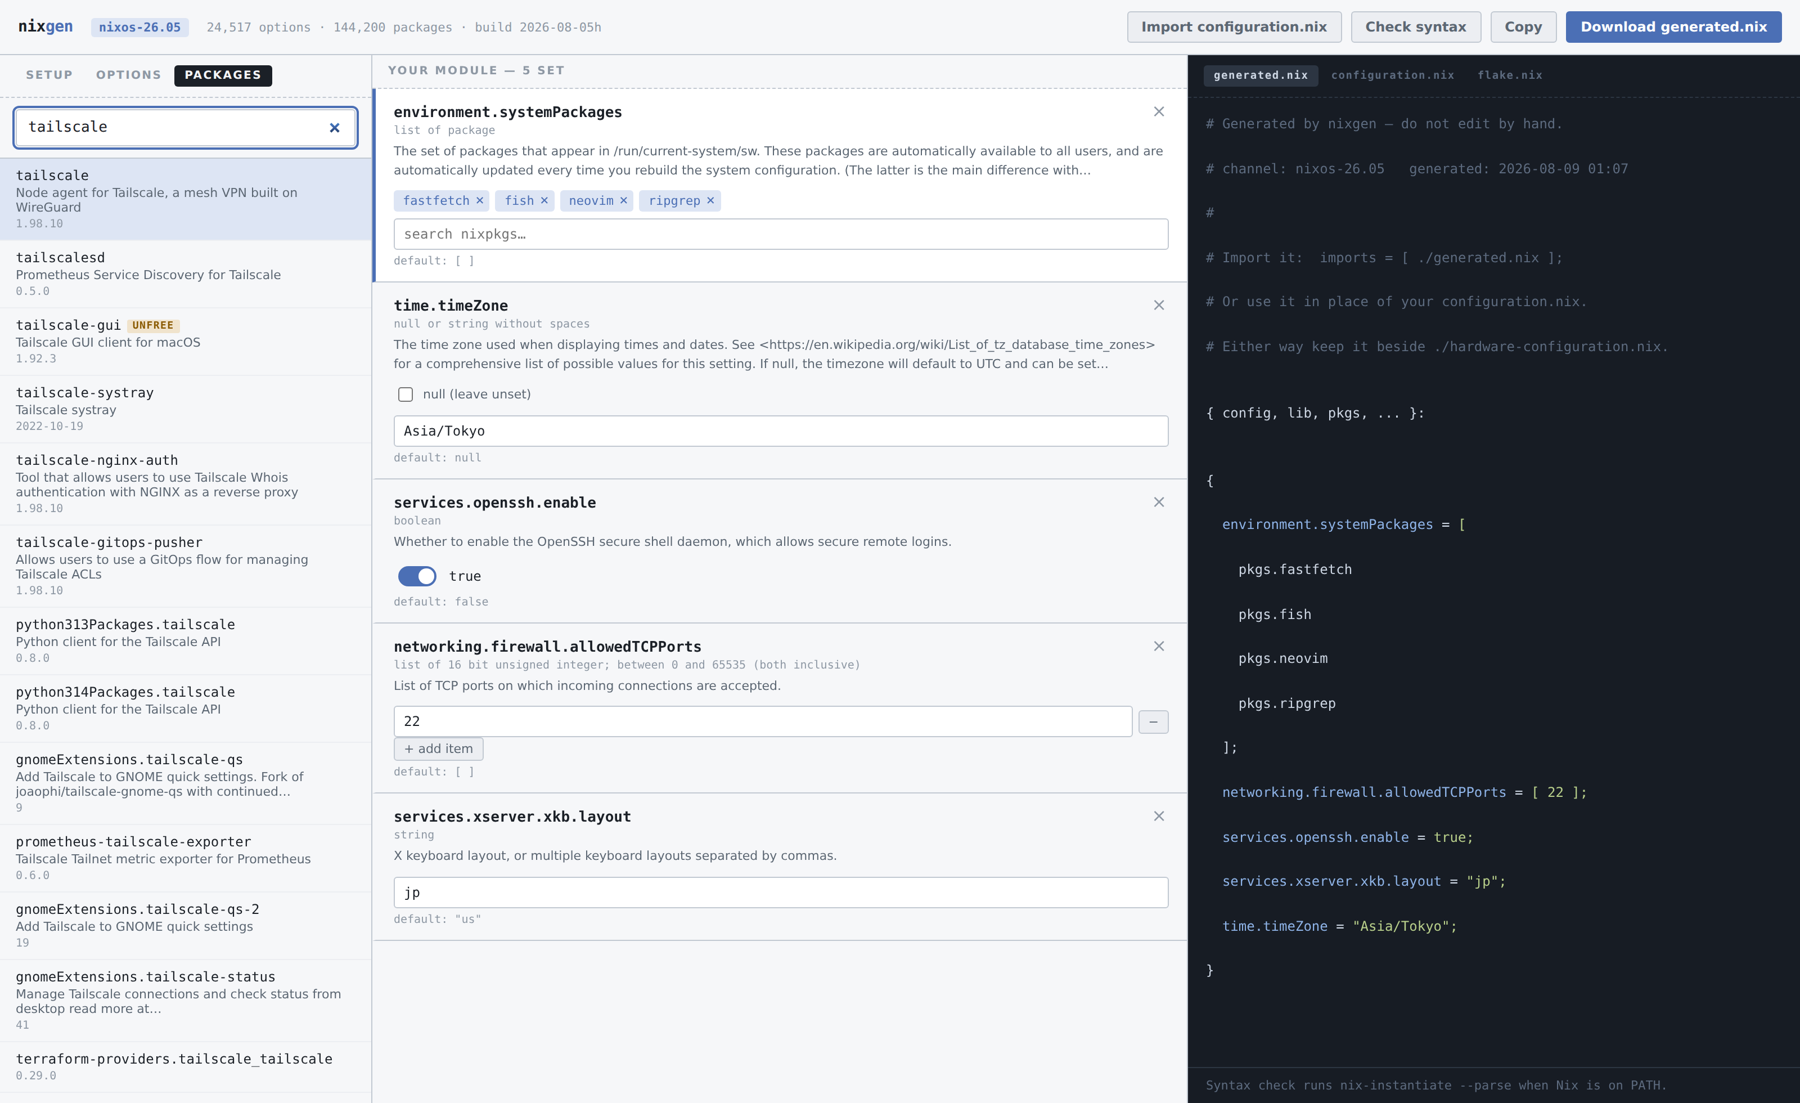
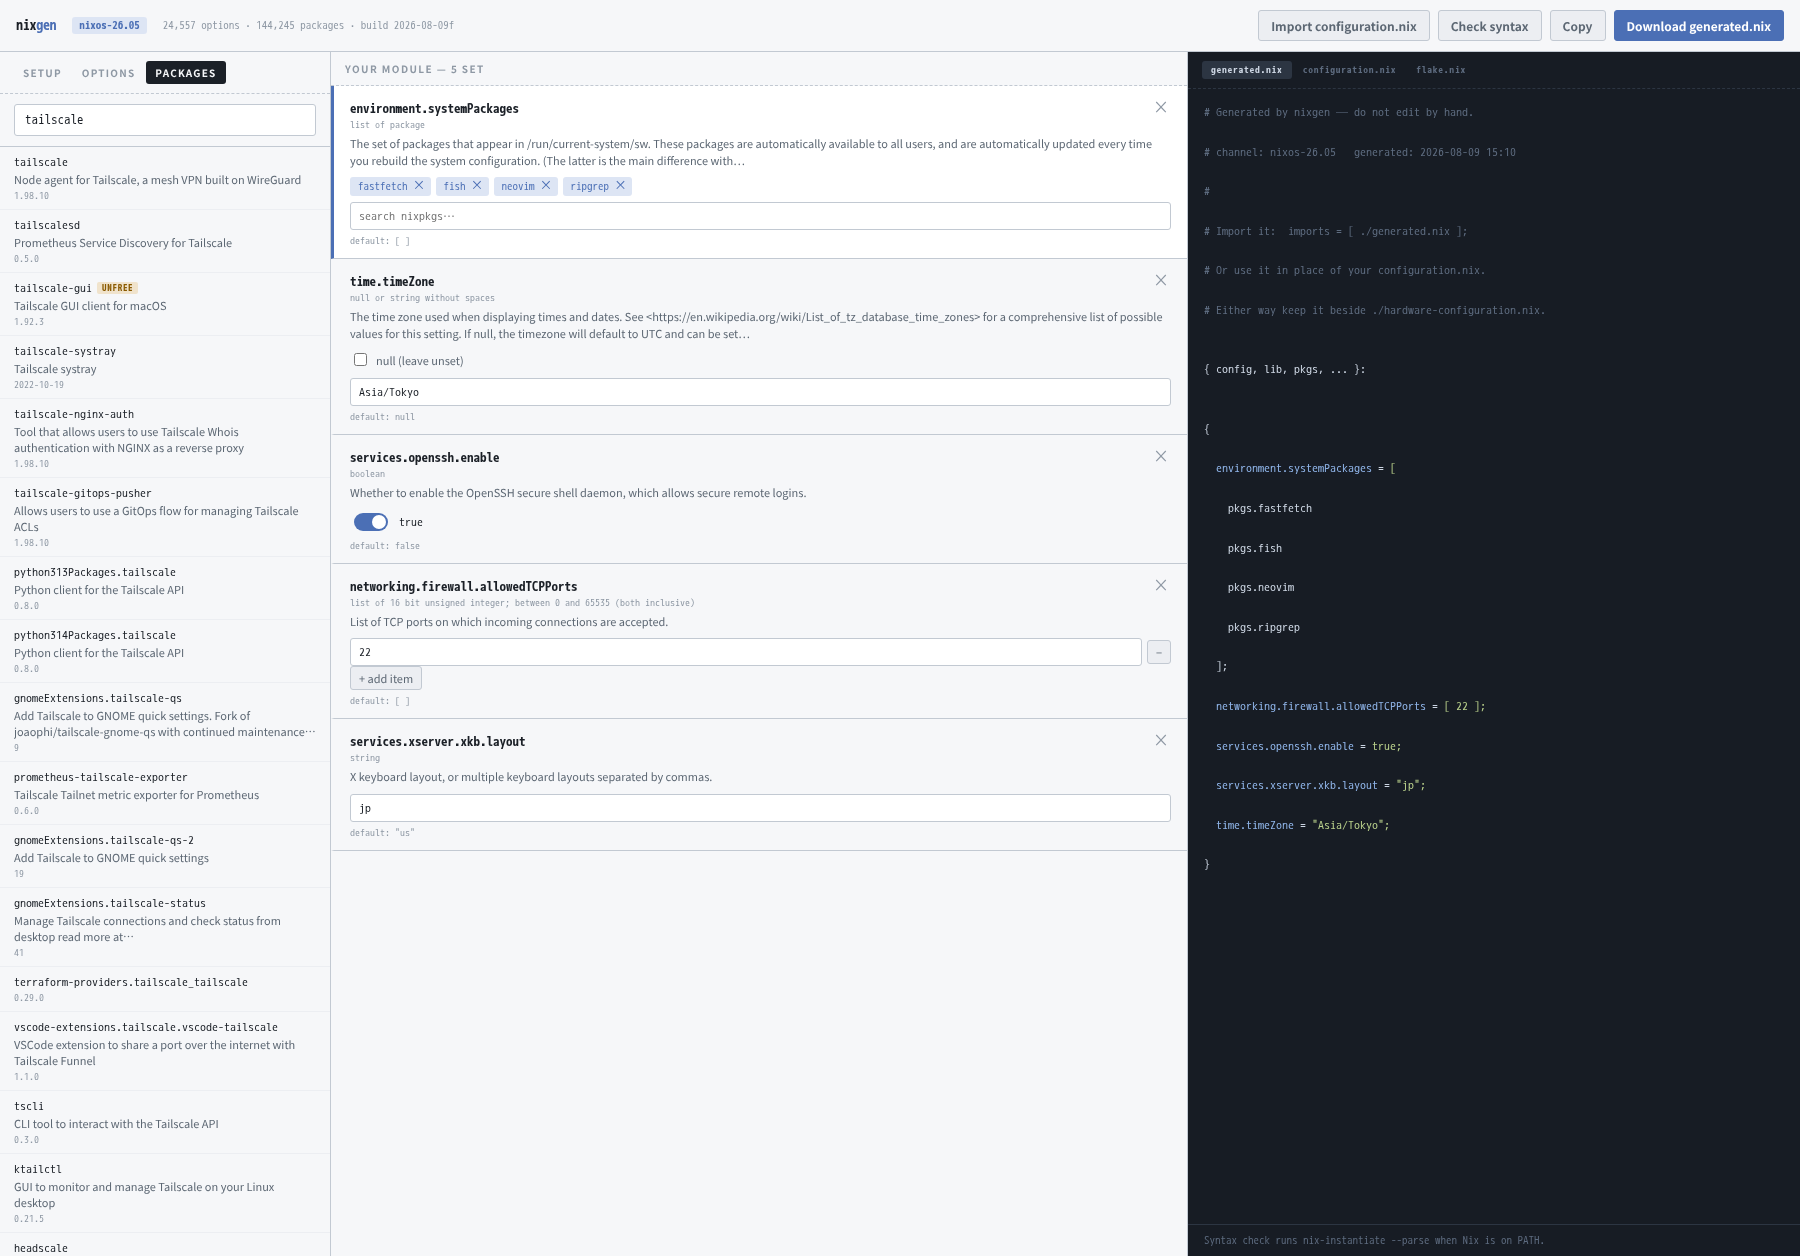
Retake the screenshots, and make retaking them a command
The three images are the first thing anyone sees on the homepage and in both
READMEs, and they had gone three features out of date: no channel selector,
no choice of what flake.nix points at, no line saying how old the option list
is. They were also still quoting 24,517 options.

They drifted because retaking them was a manual chore. tools/shots.py drives
the running app through Playwright — the same clicks a person would make — so
it is now one command. Playwright stays out of the flake's devShell on
purpose: it pulls a browser, and this runs about as often as the UI changes
shape.

Every shot shows the build id and the option counts, which is how a stale one
gets spotted next time.

The import shot uses a configuration with `hardware.opengl.enable` and
`sound.enable` in it — both gone from current NixOS — so the group that
matters most is visible: the lines carried over as written, which
nixos-rebuild will reject if they are left alone.

diff --git a/docs/index.html b/docs/index.html
@@ -352,7 +352,7 @@ https://channels.nixos.org/nixos-26.05/packages.json.br</pre>
     </div>
 
     <figure>
-      <img src="screenshot-import.png" alt="Import summary listing what was filled in and what was carried over verbatim">
+      <img src="screenshot-import.png" alt="A configuration read in: fourteen settings filled into the form, options also set in configuration.nix flagged in red, and the lines carried over as written marked in the generated file">
       <figcaption class="en">Every line is accounted for — the summary says exactly what happened to each.</figcaption>
       <figcaption class="ja">すべての行が計上されます。何がどう扱われたかが一覧で出ます。</figcaption>
     </figure>

diff --git a/tools/shots.py b/tools/shots.py
@@ -1,0 +1,167 @@
+"""Retake docs/screenshot*.png against a running nixgen.
+
+The three images are the homepage and both READMEs' first impression, and they
+went three features out of date because retaking them was a manual chore.
+This makes it a command.
+
+Drives the real app rather than mocking anything, so what lands on the homepage
+is what the tool actually does — including the build id and the option counts,
+which is how you can tell at a glance whether a shot is stale.
+
+    # in one terminal
+    python3 build/server.py --db data/nixgen.sqlite --port 8824 --no-browser
+
+    # in another
+    nix shell --impure --expr \\
+      '(import <nixpkgs> {}).python3.withPackages (ps: [ ps.playwright ])' \\
+      --command env \\
+      PLAYWRIGHT_BROWSERS_PATH=$(nix build nixpkgs#playwright-driver.browsers \\
+                                  --no-link --print-out-paths) \\
+      PLAYWRIGHT_SKIP_BROWSER_DOWNLOAD=1 \\
+      python3 tools/shots.py http://127.0.0.1:8824/ docs
+
+Playwright is not in the flake's devShell on purpose: it pulls a browser, and
+this runs about as often as the UI changes shape.
+
+Check the result before committing it. The index the server is serving decides
+the counts and the "published today" line, so build it fresh first — a shot
+that says the list is eleven days old is a worse advertisement than an old
+screenshot.
+"""
+
+import sys
+
+from playwright.sync_api import sync_playwright
+
+BASE, OUT = sys.argv[1], sys.argv[2]
+W, H = 1800, 1256
+
+PACKAGES = ["fastfetch", "fish", "neovim", "ripgrep"]
+
+# A configuration from a machine a release or two behind, which is the case
+# the import is for. `hardware.opengl.enable` and `sound.enable` are both gone
+# from current NixOS, so the shot shows the group that matters most: the lines
+# carried over as written, which nixos-rebuild will reject if left alone.
+SAMPLE = '''{ config, pkgs, lib, ... }:
+
+{
+  imports = [
+    ./hardware-configuration.nix
+  ];
+
+  boot.loader.systemd-boot.enable = true;
+  boot.kernelParams = [ "quiet" "splash" ];
+
+  networking.hostName = "desktop";
+  networking.networkmanager.enable = true;
+  networking.firewall.allowedTCPPorts = [ 22 80 443 ];
+  time.timeZone = "Asia/Tokyo";
+
+  hardware.opengl.enable = true;
+  sound.enable = true;
+
+  services.openssh = {
+    enable = true;
+    settings.PermitRootLogin = "no";
+  };
+
+  environment.systemPackages = with pkgs; [
+    firefox
+    git
+    ripgrep
+  ];
+
+  environment.sessionVariables.EDITOR = "vim";
+
+  system.stateVersion = "26.05";
+}
+'''
+
+
+def card(page, path):
+    return page.locator(f'.card[data-path="{path}"]')
+
+
+def add_option(page, query, path):
+    """Type a query, click the first result, wait for the card to appear."""
+    page.fill("#q", query)
+    page.wait_for_timeout(900)
+    page.locator("#results > *").first.click()
+    card(page, path).wait_for(timeout=5000)
+    page.wait_for_timeout(400)
+
+
+with sync_playwright() as p:
+    browser = p.chromium.launch(args=["--hide-scrollbars"])
+    page = browser.new_page(viewport={"width": W, "height": H},
+                            device_scale_factor=1)
+
+    # ----------------------------------------------------------- setup tab
+    page.goto(BASE, wait_until="networkidle")
+    page.wait_for_timeout(1800)
+    page.fill("#s-host", "desktop")
+    page.fill("#s-user", "takeshi")
+    page.fill("#s-groups", "wheel networkmanager video docker")
+    page.select_option("#s-pin", "commit")
+    page.wait_for_timeout(1200)
+    page.click('.filetabs .tab[data-file="configuration.nix"]')
+    page.wait_for_timeout(600)
+    page.screenshot(path=f"{OUT}/screenshot-setup.png")
+    print("wrote screenshot-setup.png")
+
+    # ---------------------------------------------- the catalogue in use
+    page.click('#pane-catalog .tab[data-kind="options"]')
+    page.wait_for_timeout(500)
+
+    add_option(page, "time.timeZone", "time.timeZone")
+    card(page, "time.timeZone").locator('.control input[type="text"]').fill("Asia/Tokyo")
+
+    add_option(page, "services.openssh.enable", "services.openssh.enable")
+    card(page, "services.openssh.enable").locator(".toggle input").check()
+
+    add_option(page, "networking.firewall.allowedTCPPorts",
+               "networking.firewall.allowedTCPPorts")
+    ports = card(page, "networking.firewall.allowedTCPPorts")
+    ports.locator("button.mini").click()
+    ports.locator(".items input").first.fill("22")
+
+    add_option(page, "services.xserver.xkb.layout", "services.xserver.xkb.layout")
+    card(page, "services.xserver.xkb.layout").locator('.control input[type="text"]').fill("jp")
+
+    # Packages, added the way anyone would: search, click.
+    page.click('#pane-catalog .tab[data-kind="packages"]')
+    page.wait_for_timeout(500)
+    for name in PACKAGES:
+        page.fill("#q", name)
+        page.wait_for_timeout(900)
+        page.locator("#results > *").first.click()
+        page.wait_for_timeout(500)
+
+    # Leave a search in the box, so the pane is showing what it is for.
+    page.fill("#q", "tailscale")
+    page.wait_for_timeout(1000)
+    page.click('.filetabs .tab[data-file="generated.nix"]')
+    page.wait_for_timeout(1000)
+    page.screenshot(path=f"{OUT}/screenshot.png")
+    print("wrote screenshot.png")
+
+    # -------------------------------------------------- reading a file in
+    page.goto(BASE, wait_until="networkidle")
+    page.wait_for_timeout(1800)
+    page.set_input_files("#file", files=[{
+        "name": "desktop.nix",
+        "mimeType": "text/plain",
+        "buffer": SAMPLE.encode(),
+    }])
+    page.wait_for_timeout(2500)
+    # The catalogue, not the starter form: what the shot is about is the
+    # summary of where every line went, and that sits above the module.
+    page.click('#pane-catalog .tab[data-kind="options"]')
+    page.wait_for_timeout(700)
+    page.evaluate("const b = document.querySelector('#editor').parentElement;"
+                  "if (b) b.scrollTop = 0;")
+    page.wait_for_timeout(400)
+    page.screenshot(path=f"{OUT}/screenshot-import.png")
+    print("wrote screenshot-import.png")
+
+    browser.close()

diff --git a/CLAUDE.md b/CLAUDE.md
@@ -63,6 +63,7 @@ build/
 tools/
   fuzz.py           regression + fuzz harness. Run before shipping renderer changes.
   import_check.py   the same for the importer, through both of its readers.
+  shots.py          retakes docs/screenshot*.png by driving the real app.
 docs/               the GitHub Pages homepage
 ```
 
@@ -200,6 +201,11 @@ them through `nix-instantiate --parse`. The fixed regression cases at the top
 matter as much as the random part: random sampling did **not** catch the
 negative-number bug when it was deliberately reintroduced, because that seed
 happened not to put a negative number in a list.
+
+`tools/shots.py` retakes the three screenshots by driving the running app, so
+they cannot drift the way they did — they had gone three features out of date,
+because retaking them by hand was a chore nobody remembered. The build id and
+the option counts are visible in every shot, which is how a stale one is spotted.
 
 `tools/import_check.py` reads configurations back in and checks that every line
 is accounted for, comes back as the value it went in as, and rebuilds into a
@@ -341,6 +347,10 @@ once in ways nothing else caught.
 
 ## Open items
 
-- `docs/screenshot*.png` need retaking whenever the UI changes shape. They now
-  predate the channel selector, the pin choice and the index-age line, so the
-  Setup tab in them is three features out of date.
+- **The import summary sits below the module, not above it.** `4c8545a` swapped
+  `#notice` and `#editor` to get the package box to the top of the column, which
+  it does — but after reading in a real file the "kept as written: not an option
+  in this release" line is now under a screen or two of cards, and that is the
+  one thing `nixos-rebuild` will refuse to accept. It was a deliberate trade, so
+  it is written down rather than quietly reversed. `#notice:not(:empty) { order:
+  -1 }` on a flex `.pane-body` would give both.

diff --git a/CHANGELOG.md b/CHANGELOG.md
@@ -9,6 +9,13 @@ option counts.
 
 ## English
 
+### Documentation
+
+- **The screenshots are current again.** They had gone three features out of
+  date — no channel selector, no choice of what `flake.nix` points at, no line
+  saying how old the option list is. Retaking them is a command now
+  (`tools/shots.py`, which drives the real app), so they should stop drifting.
+
 ### build 2026-08-09f
 
 - **A real message when port 8823 is taken**, instead of a Python traceback. It
@@ -170,6 +177,10 @@ three of these six showed up in only one of the two.
 ---
 
 ## 日本語
+
+### ドキュメント
+
+- **スクリーンショットを最新の状態にしました。** チャンネル選択も、`flake.nix` が何を指すかの選択も、オプション一覧の鮮度表示も写っていない、3世代前のものでした。撮り直しはコマンド化してあります(`tools/shots.py`。実際のアプリを操作します)。今後はずれにくくなるはずです。
 
 ### build 2026-08-09f
 

diff --git a/README.ja.md b/README.ja.md
@@ -398,6 +398,7 @@ build/
 tools/
   fuzz.py           レンダラの回帰テスト + ファジング
   import_check.py   読み込み側の回帰テスト。2つのリーダー両方を通します
+  shots.py          実際のアプリを操作してスクリーンショットを撮り直します
 data/
   nixgen.sqlite     作られるデータベース。gitには入れません
 docs/

diff --git a/README.md b/README.md
@@ -499,6 +499,7 @@ build/
 tools/
   fuzz.py           regression + fuzz harness for the renderer
   import_check.py   the same for the importer, through both of its readers
+  shots.py          retakes the screenshots by driving the real app
 data/
   nixgen.sqlite     the database it builds, not in git
 docs/
